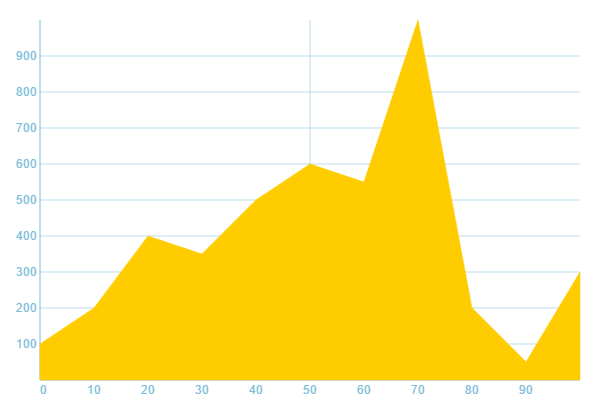
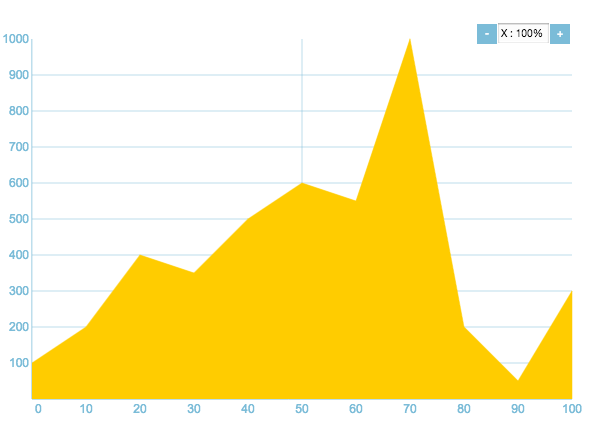
Add zoom in/out function on GraphView #3

Changed region(s): [[0.0, 0.03, 1.0, 0.99], [0.7601, 0.57, 0.973, 0.81], [0.8209, 0.81, 0.9122, 0.9]]

diff --git a/README.md b/README.md
@@ -15,6 +15,8 @@ npm install backbone-graph
 
 ## How to use it
 
+### javascript
+
 ```javascript
 // require
 var $ = require('jquery');
@@ -50,10 +52,10 @@ var graphCollection = new Graph.Collection([lineData]);
 // initialize graph view
 var graphView = new Graph.GraphView({
   collection: graphCollection,
-  pos: [0, 0, 600, 400],                    // left, top, width, height
-  xAxis: new Graph.Axis(10, 50, 10),        // max, scale interval, sub scale interval
-  yAxis: new Graph.Axis(1000, 100, 100),    // max, scale interval, sub scale interval
-  axisColor : "#7bbcd8"
+  width: 600,
+  height: 400,
+  xAxis: new Graph.Axis({max:100, interval:50, subInterval:10, axisColor: AXIS_COLOR}),
+  yAxis: new Graph.Axis({max:1000, interval:100, subInterval:100, axisColor: AXIS_COLOR}),
 });
 graphView.$el.appendTo($('#graphelement'));
 
@@ -61,13 +63,56 @@ graphView.$el.appendTo($('#graphelement'));
 graphCollection.change();
 ```
 
+### style sheet (css)
+
+- backbone-graph.css
+
+    link backbone-graph.css or backbone-graph.min.css in the header section of your html file.
+    
+    '<link rel="stylesheet" href="dist/css/backbone-graph.css">`
+
+- user customize
+
+```css
+/* You can change the magnification button position */
+.backbone_graph_scale {
+    left: 485px;
+    top: 0;
+}
+
+/* You can change the magnification button appearance */
+.backbone_graph_scale_button {
+    background: #7bbcd8;
+    color: #fff;
+}
+
+/* You can change the magnification number appearance */
+.backbone_graph_scale_number {
+    background: #fcfcfc;
+    color: #000;
+}
+```
+
 ## Graph sample
 
 Normal graph
+
 ![Graph sample](./example/graph.png?raw=true "Graph sample")
 
 Smoothed graph
+
 ![Graph sample](./example/smoothgraph.png?raw=true "Smoothed graph sample")
+
+## How to operate the Graph 
+
+- Magnification
+
+    You can change the graph magnification to click the plus / minus button at top of the graph.
+    The magnification can be changed every 50%, and maximum is 800%.
+
+- Scroll
+
+    You can scroll the graph to drag around the x axis.
 
 ## Other functions
 
